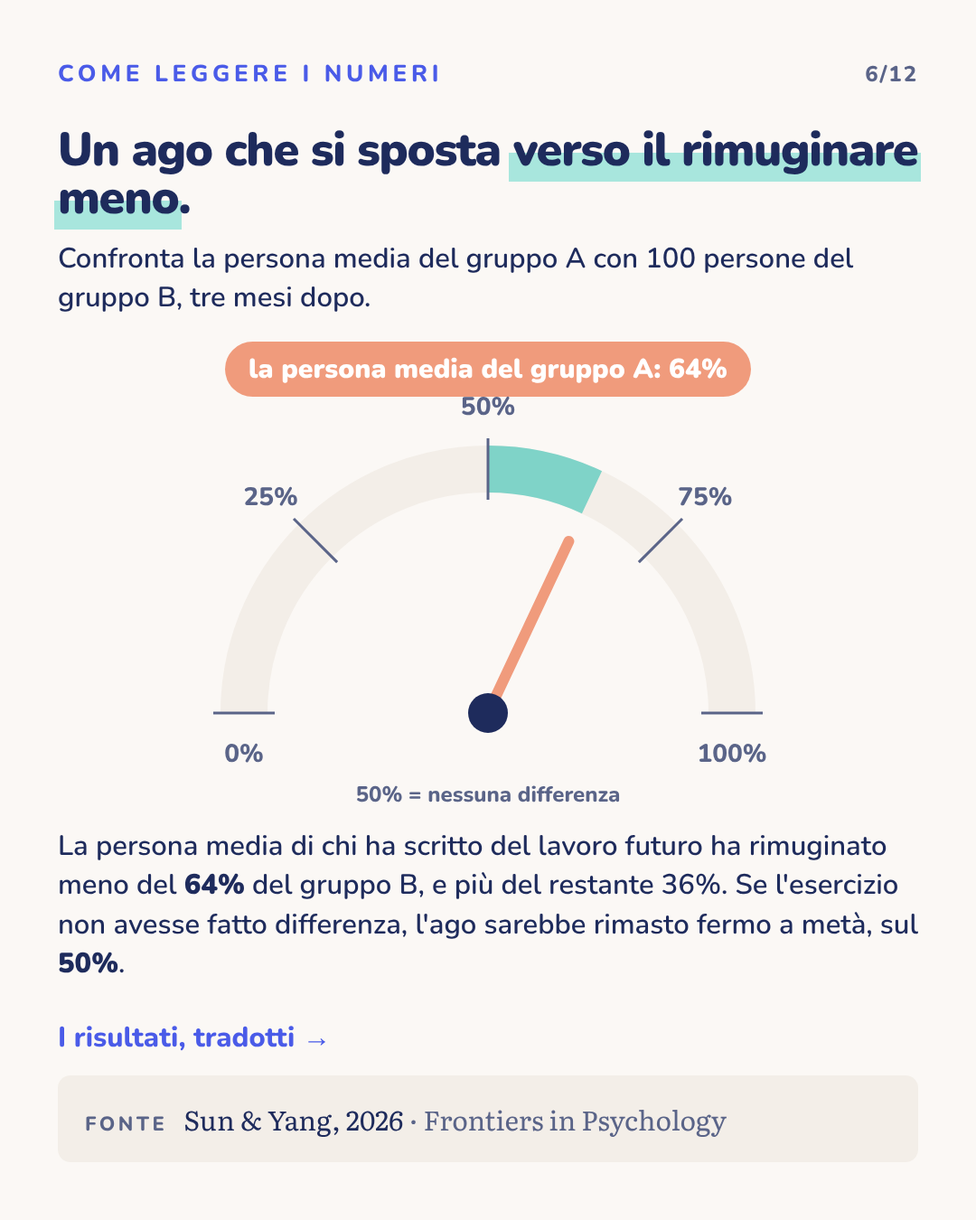
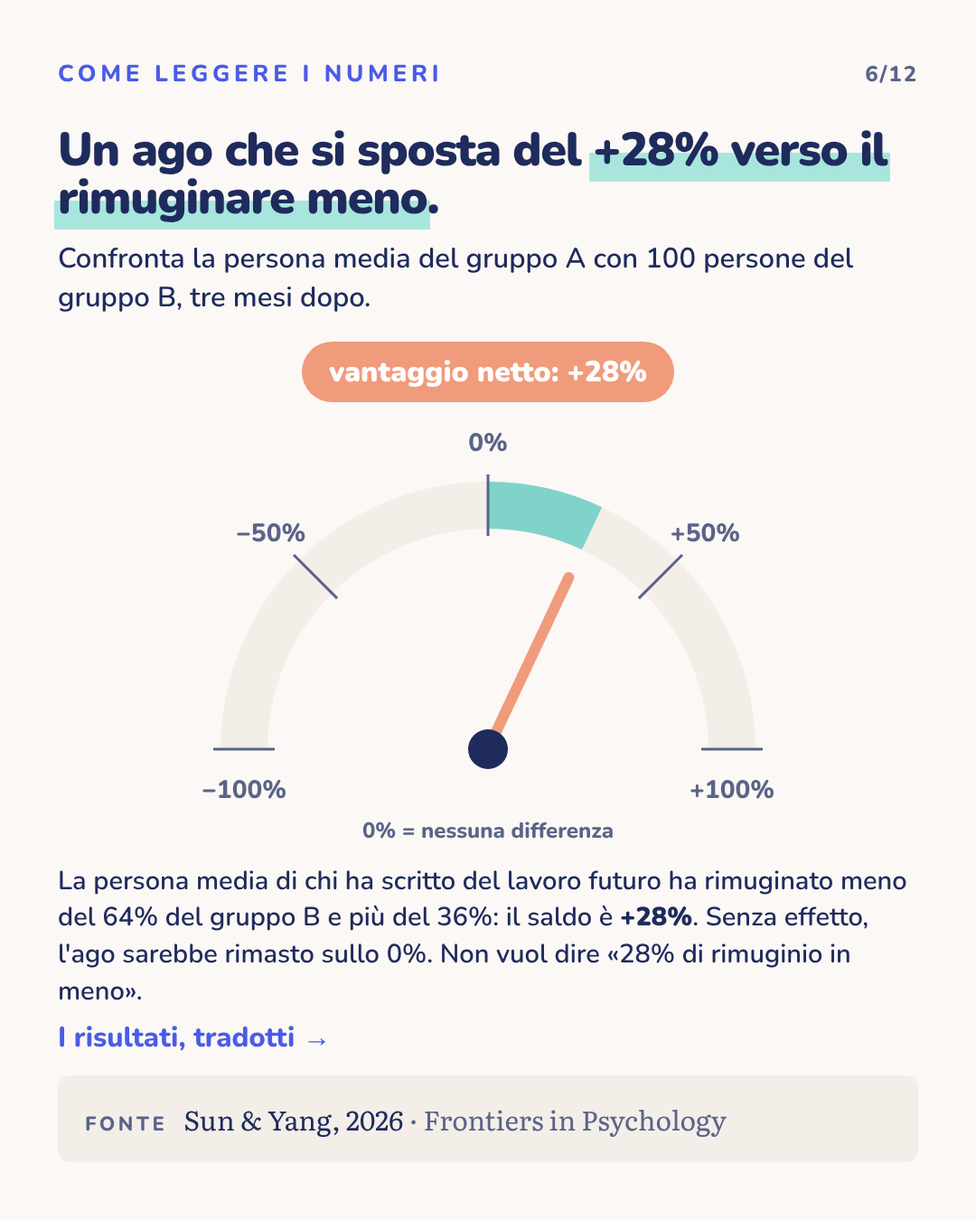
Direzione: net advantage (+28%) on slides 6-7, spacing fix
Claude-Session: https://claude.ai/code/session_01KYQeP73Zvn8PeP6zhkL2Sc

diff --git a/carosselli/direzione/editor-testi.html b/carosselli/direzione/editor-testi.html
@@ -270,26 +270,26 @@ svg.shape{position:absolute;z-index:1}
 </section></div></div></div><div class="cell"><span class="lab">Slide 6 di 12</span><div class="frame"><div class="deck"><section class="slide" id="s6">
   <div class="top"><p class="kicker we" data-e="s6-1">Come leggere i numeri</p><div class="count" data-e="s6-2">6/12</div></div>
   <div class="stack" style="margin-top:40px;gap:20px">
-    <h2 style="font-size:52px" data-e="s6-3">Un ago che si sposta <span class="hl t">verso il rimuginare meno</span>.</h2>
+    <h2 style="font-size:52px" data-e="s6-3">Un ago che si sposta del <span class="hl t">+28% verso il rimuginare meno</span>.</h2>
     <p class="mid" style="font-size:31px" data-e="s6-4">Confronta la persona media del gruppo A con 100 persone del gruppo B, tre mesi dopo.</p>
-    <span style="align-self:center;margin-top:6px;background:var(--coral);color:#fff;font-weight:900;font-size:30px;border-radius:999px;padding:10px 26px" data-e="s6-5">la persona media del gruppo A: 64%</span>
-    <svg width="880" height="390" viewBox="0 0 880 390" style="align-self:center;overflow:visible"><path d="M170.0 330.0 A270 270 0 0 1 710.0 330.0" fill="none" stroke="#F3EEE8" stroke-width="52" stroke-linecap="butt"></path><path d="M440.0 60.0 A270 270 0 0 1 555.0 85.7" fill="none" stroke="#7FD3C8" stroke-width="52" stroke-linecap="butt"></path><line x1="204.0" y1="330.0" x2="136.0" y2="330.0" stroke="#5A6488" stroke-width="3"></line><text x="170.0" y="384.0" text-anchor="middle" font-family="Nunito" font-weight="800" font-size="28" fill="#5A6488">0%</text><line x1="273.1" y1="163.1" x2="225.0" y2="115.0" stroke="#5A6488" stroke-width="3"></line><text x="199.6" y="99.6" text-anchor="middle" font-family="Nunito" font-weight="800" font-size="28" fill="#5A6488">25%</text><line x1="440.0" y1="94.0" x2="440.0" y2="26.0" stroke="#5A6488" stroke-width="3"></line><text x="440.0" y="0.0" text-anchor="middle" font-family="Nunito" font-weight="800" font-size="28" fill="#5A6488">50%</text><line x1="606.9" y1="163.1" x2="655.0" y2="115.0" stroke="#5A6488" stroke-width="3"></line><text x="680.4" y="99.6" text-anchor="middle" font-family="Nunito" font-weight="800" font-size="28" fill="#5A6488">75%</text><line x1="676.0" y1="330.0" x2="744.0" y2="330.0" stroke="#5A6488" stroke-width="3"></line><text x="710.0" y="384.0" text-anchor="middle" font-family="Nunito" font-weight="800" font-size="28" fill="#5A6488">100%</text><line x1="440" y1="330" x2="529.4" y2="140.0" stroke="#F09B7C" stroke-width="12" stroke-linecap="round"></line><circle cx="440" cy="330" r="22" fill="#1E2B5C"></circle></svg>
-    <p style="align-self:center;font-weight:800;font-size:24px;color:var(--muted);margin-top:-6px" data-e="s6-6">50% = nessuna differenza</p>
-    <p class="mid" style="font-size:31px" data-e="s6-7">La persona media di chi ha scritto del lavoro futuro ha rimuginato meno del <b>64%</b> del gruppo B, e più del restante 36%. Se l'esercizio non avesse fatto differenza, l'ago sarebbe rimasto fermo a metà, sul <b>50%</b>.</p>
+    <span style="align-self:center;margin-top:6px;margin-bottom:34px;background:var(--coral);color:#fff;font-weight:900;font-size:32px;border-radius:999px;padding:12px 30px" data-e="s6-5">vantaggio netto: +28%</span>
+    <svg width="880" height="390" viewBox="0 0 880 390" style="align-self:center;overflow:visible"><path d="M170.0 330.0 A270 270 0 0 1 710.0 330.0" fill="none" stroke="#F3EEE8" stroke-width="52" stroke-linecap="butt"></path><path d="M440.0 60.0 A270 270 0 0 1 555.0 85.7" fill="none" stroke="#7FD3C8" stroke-width="52" stroke-linecap="butt"></path><line x1="204.0" y1="330.0" x2="136.0" y2="330.0" stroke="#5A6488" stroke-width="3"></line><text x="170.0" y="384.0" text-anchor="middle" font-family="Nunito" font-weight="800" font-size="28" fill="#5A6488">−100%</text><line x1="273.1" y1="163.1" x2="225.0" y2="115.0" stroke="#5A6488" stroke-width="3"></line><text x="199.6" y="99.6" text-anchor="middle" font-family="Nunito" font-weight="800" font-size="28" fill="#5A6488">−50%</text><line x1="440.0" y1="94.0" x2="440.0" y2="26.0" stroke="#5A6488" stroke-width="3"></line><text x="440.0" y="0.0" text-anchor="middle" font-family="Nunito" font-weight="800" font-size="28" fill="#5A6488">0%</text><line x1="606.9" y1="163.1" x2="655.0" y2="115.0" stroke="#5A6488" stroke-width="3"></line><text x="680.4" y="99.6" text-anchor="middle" font-family="Nunito" font-weight="800" font-size="28" fill="#5A6488">+50%</text><line x1="676.0" y1="330.0" x2="744.0" y2="330.0" stroke="#5A6488" stroke-width="3"></line><text x="710.0" y="384.0" text-anchor="middle" font-family="Nunito" font-weight="800" font-size="28" fill="#5A6488">+100%</text><line x1="440" y1="330" x2="529.4" y2="140.0" stroke="#F09B7C" stroke-width="12" stroke-linecap="round"></line><circle cx="440" cy="330" r="22" fill="#1E2B5C"></circle></svg>
+    <p style="align-self:center;font-weight:800;font-size:24px;color:var(--muted);margin-top:-6px" data-e="s6-6">0% = nessuna differenza</p>
+    <p class="mid" style="font-size:29px" data-e="s6-7">La persona media di chi ha scritto del lavoro futuro ha rimuginato meno del 64% del gruppo B e più del 36%: il saldo è <b>+28%</b>. Senza effetto, l'ago sarebbe rimasto sullo 0%. Non vuol dire «28% di rimuginio in meno».</p>
   </div>
   <p class="next" data-e="s6-8">I risultati, tradotti →</p>
   <div class="src"><b data-e="s6-9">FONTE</b><span data-e="s6-10"><em>Sun &amp; Yang, 2026</em> · Frontiers in Psychology</span></div>
 </section></div></div></div><div class="cell"><span class="lab">Slide 7 di 12</span><div class="frame"><div class="deck"><section class="slide" id="s7">
   <div class="top"><p class="kicker we" data-e="s7-1">I numeri, tradotti</p><div class="count" data-e="s7-2">7/12</div></div>
   <div class="stack" style="margin-top:40px;gap:22px">
-    <h2 style="font-size:52px" data-e="s7-3">Tre mesi dopo, l'ago si è spostato in <span class="hl t">tutti e quattro</span> i confronti.</h2>
+    <h2 style="font-size:50px" data-e="s7-3">Tre mesi dopo, un vantaggio netto <span class="hl t">in tutti e quattro</span> i confronti.</h2>
     <div class="dg">
       <small data-e="s7-4">Rimuginare meno</small>
-      <div class="dr"><div class="dc"><svg width="300" height="175" viewBox="0 0 300 175"><path d="M38.0 150.0 A112 112 0 0 1 262.0 150.0" fill="none" stroke="#F3EEE8" stroke-width="30"></path><path d="M150.0 38.0 A112 112 0 0 1 197.7 48.7" fill="none" stroke="#7FD3C8" stroke-width="30"></path><line x1="150.0" y1="60.0" x2="150.0" y2="16.0" stroke="#5A6488" stroke-width="3"></line><line x1="150" y1="150" x2="184.9" y2="75.8" stroke="#F09B7C" stroke-width="8" stroke-linecap="round"></line><circle cx="150" cy="150" r="13" fill="#1E2B5C"></circle></svg><b data-e="s7-5">64%</b><span data-e="s7-6">rispetto a chi ha scritto d'altro (B)</span></div><div class="dc"><svg width="300" height="175" viewBox="0 0 300 175"><path d="M38.0 150.0 A112 112 0 0 1 262.0 150.0" fill="none" stroke="#F3EEE8" stroke-width="30"></path><path d="M150.0 38.0 A112 112 0 0 1 204.0 51.9" fill="none" stroke="#7FD3C8" stroke-width="30"></path><line x1="150.0" y1="60.0" x2="150.0" y2="16.0" stroke="#5A6488" stroke-width="3"></line><line x1="150" y1="150" x2="189.5" y2="78.1" stroke="#F09B7C" stroke-width="8" stroke-linecap="round"></line><circle cx="150" cy="150" r="13" fill="#1E2B5C"></circle></svg><b data-e="s7-7">66%</b><span data-e="s7-8">rispetto a chi non ha scritto (C)</span></div></div>
+      <div class="dr"><div class="dc"><svg width="300" height="175" viewBox="0 0 300 175"><path d="M38.0 150.0 A112 112 0 0 1 262.0 150.0" fill="none" stroke="#F3EEE8" stroke-width="30"></path><path d="M150.0 38.0 A112 112 0 0 1 197.7 48.7" fill="none" stroke="#7FD3C8" stroke-width="30"></path><line x1="150.0" y1="60.0" x2="150.0" y2="16.0" stroke="#5A6488" stroke-width="3"></line><line x1="150" y1="150" x2="184.9" y2="75.8" stroke="#F09B7C" stroke-width="8" stroke-linecap="round"></line><circle cx="150" cy="150" r="13" fill="#1E2B5C"></circle></svg><b data-e="s7-5">+28%</b><span data-e="s7-6">rispetto a chi ha scritto d'altro (B)</span></div><div class="dc"><svg width="300" height="175" viewBox="0 0 300 175"><path d="M38.0 150.0 A112 112 0 0 1 262.0 150.0" fill="none" stroke="#F3EEE8" stroke-width="30"></path><path d="M150.0 38.0 A112 112 0 0 1 204.0 51.9" fill="none" stroke="#7FD3C8" stroke-width="30"></path><line x1="150.0" y1="60.0" x2="150.0" y2="16.0" stroke="#5A6488" stroke-width="3"></line><line x1="150" y1="150" x2="189.5" y2="78.1" stroke="#F09B7C" stroke-width="8" stroke-linecap="round"></line><circle cx="150" cy="150" r="13" fill="#1E2B5C"></circle></svg><b data-e="s7-7">+32%</b><span data-e="s7-8">rispetto a chi non ha scritto (C)</span></div></div>
       <small data-e="s7-9">Sentirsi pronti a decidere</small>
-      <div class="dr"><div class="dc"><svg width="300" height="175" viewBox="0 0 300 175"><path d="M38.0 150.0 A112 112 0 0 1 262.0 150.0" fill="none" stroke="#F3EEE8" stroke-width="30"></path><path d="M150.0 38.0 A112 112 0 0 1 200.8 50.2" fill="none" stroke="#7FD3C8" stroke-width="30"></path><line x1="150.0" y1="60.0" x2="150.0" y2="16.0" stroke="#5A6488" stroke-width="3"></line><line x1="150" y1="150" x2="187.2" y2="76.9" stroke="#F09B7C" stroke-width="8" stroke-linecap="round"></line><circle cx="150" cy="150" r="13" fill="#1E2B5C"></circle></svg><b data-e="s7-10">65%</b><span data-e="s7-11">rispetto a chi ha scritto d'altro (B)</span></div><div class="dc"><svg width="300" height="175" viewBox="0 0 300 175"><path d="M38.0 150.0 A112 112 0 0 1 262.0 150.0" fill="none" stroke="#F3EEE8" stroke-width="30"></path><path d="M150.0 38.0 A112 112 0 0 1 207.0 53.6" fill="none" stroke="#7FD3C8" stroke-width="30"></path><line x1="150.0" y1="60.0" x2="150.0" y2="16.0" stroke="#5A6488" stroke-width="3"></line><line x1="150" y1="150" x2="191.7" y2="79.4" stroke="#F09B7C" stroke-width="8" stroke-linecap="round"></line><circle cx="150" cy="150" r="13" fill="#1E2B5C"></circle></svg><b data-e="s7-12">67%</b><span data-e="s7-13">rispetto a chi non ha scritto (C)</span></div></div>
+      <div class="dr"><div class="dc"><svg width="300" height="175" viewBox="0 0 300 175"><path d="M38.0 150.0 A112 112 0 0 1 262.0 150.0" fill="none" stroke="#F3EEE8" stroke-width="30"></path><path d="M150.0 38.0 A112 112 0 0 1 200.8 50.2" fill="none" stroke="#7FD3C8" stroke-width="30"></path><line x1="150.0" y1="60.0" x2="150.0" y2="16.0" stroke="#5A6488" stroke-width="3"></line><line x1="150" y1="150" x2="187.2" y2="76.9" stroke="#F09B7C" stroke-width="8" stroke-linecap="round"></line><circle cx="150" cy="150" r="13" fill="#1E2B5C"></circle></svg><b data-e="s7-10">+30%</b><span data-e="s7-11">rispetto a chi ha scritto d'altro (B)</span></div><div class="dc"><svg width="300" height="175" viewBox="0 0 300 175"><path d="M38.0 150.0 A112 112 0 0 1 262.0 150.0" fill="none" stroke="#F3EEE8" stroke-width="30"></path><path d="M150.0 38.0 A112 112 0 0 1 207.0 53.6" fill="none" stroke="#7FD3C8" stroke-width="30"></path><line x1="150.0" y1="60.0" x2="150.0" y2="16.0" stroke="#5A6488" stroke-width="3"></line><line x1="150" y1="150" x2="191.7" y2="79.4" stroke="#F09B7C" stroke-width="8" stroke-linecap="round"></line><circle cx="150" cy="150" r="13" fill="#1E2B5C"></circle></svg><b data-e="s7-12">+34%</b><span data-e="s7-13">rispetto a chi non ha scritto (C)</span></div></div>
     </div>
-    <p class="mid" style="font-size:30px" data-e="s7-14">«Pronti a decidere» vuol dire meno indecisione, più motivazione a scegliere e meno convinzioni che bloccano la scelta. Sono effetti moderati, ottenuti con circa 80 minuti di scrittura in tutto.</p>
+    <p class="mid" style="font-size:30px" data-e="s7-14">«Pronti a decidere» vuol dire meno indecisione, più motivazione a scegliere e meno convinzioni che bloccano la scelta. Effetti moderati, con circa 80 minuti di scrittura in tutto.</p>
   </div>
   <p class="next" data-e="s7-15">E che cosa non è cambiato? →</p>
   <div class="src"><b data-e="s7-16">FONTE</b><span data-e="s7-17"><em>Sun &amp; Yang, 2026</em> · Frontiers in Psychology</span></div>

diff --git a/carosselli/direzione/slides.html b/carosselli/direzione/slides.html
@@ -241,12 +241,12 @@ svg.shape{position:absolute;z-index:1}
 <section class="slide" id="s6">
   <div class="top"><p class="kicker we">Come leggere i numeri</p><div class="count">6/12</div></div>
   <div class="stack" style="margin-top:40px;gap:20px">
-    <h2 style="font-size:52px">Un ago che si sposta <span class="hl t">verso il rimuginare meno</span>.</h2>
+    <h2 style="font-size:52px">Un ago che si sposta del <span class="hl t">+28% verso il rimuginare meno</span>.</h2>
     <p class="mid" style="font-size:31px">Confronta la persona media del gruppo A con 100 persone del gruppo B, tre mesi dopo.</p>
-    <span style="align-self:center;margin-top:6px;background:var(--coral);color:#fff;font-weight:900;font-size:30px;border-radius:999px;padding:10px 26px">la persona media del gruppo A: 64%</span>
-    <svg width="880" height="390" viewBox="0 0 880 390" style="align-self:center;overflow:visible"><path d="M170.0 330.0 A270 270 0 0 1 710.0 330.0" fill="none" stroke="#F3EEE8" stroke-width="52" stroke-linecap="butt"></path><path d="M440.0 60.0 A270 270 0 0 1 555.0 85.7" fill="none" stroke="#7FD3C8" stroke-width="52" stroke-linecap="butt"></path><line x1="204.0" y1="330.0" x2="136.0" y2="330.0" stroke="#5A6488" stroke-width="3"></line><text x="170.0" y="384.0" text-anchor="middle" font-family="Nunito" font-weight="800" font-size="28" fill="#5A6488">0%</text><line x1="273.1" y1="163.1" x2="225.0" y2="115.0" stroke="#5A6488" stroke-width="3"></line><text x="199.6" y="99.6" text-anchor="middle" font-family="Nunito" font-weight="800" font-size="28" fill="#5A6488">25%</text><line x1="440.0" y1="94.0" x2="440.0" y2="26.0" stroke="#5A6488" stroke-width="3"></line><text x="440.0" y="0.0" text-anchor="middle" font-family="Nunito" font-weight="800" font-size="28" fill="#5A6488">50%</text><line x1="606.9" y1="163.1" x2="655.0" y2="115.0" stroke="#5A6488" stroke-width="3"></line><text x="680.4" y="99.6" text-anchor="middle" font-family="Nunito" font-weight="800" font-size="28" fill="#5A6488">75%</text><line x1="676.0" y1="330.0" x2="744.0" y2="330.0" stroke="#5A6488" stroke-width="3"></line><text x="710.0" y="384.0" text-anchor="middle" font-family="Nunito" font-weight="800" font-size="28" fill="#5A6488">100%</text><line x1="440" y1="330" x2="529.4" y2="140.0" stroke="#F09B7C" stroke-width="12" stroke-linecap="round"></line><circle cx="440" cy="330" r="22" fill="#1E2B5C"></circle></svg>
-    <p style="align-self:center;font-weight:800;font-size:24px;color:var(--muted);margin-top:-6px">50% = nessuna differenza</p>
-    <p class="mid" style="font-size:31px">La persona media di chi ha scritto del lavoro futuro ha rimuginato meno del <b>64%</b> del gruppo B, e più del restante 36%. Se l'esercizio non avesse fatto differenza, l'ago sarebbe rimasto fermo a metà, sul <b>50%</b>.</p>
+    <span style="align-self:center;margin-top:6px;margin-bottom:34px;background:var(--coral);color:#fff;font-weight:900;font-size:32px;border-radius:999px;padding:12px 30px">vantaggio netto: +28%</span>
+    <svg width="880" height="390" viewBox="0 0 880 390" style="align-self:center;overflow:visible"><path d="M170.0 330.0 A270 270 0 0 1 710.0 330.0" fill="none" stroke="#F3EEE8" stroke-width="52" stroke-linecap="butt"></path><path d="M440.0 60.0 A270 270 0 0 1 555.0 85.7" fill="none" stroke="#7FD3C8" stroke-width="52" stroke-linecap="butt"></path><line x1="204.0" y1="330.0" x2="136.0" y2="330.0" stroke="#5A6488" stroke-width="3"></line><text x="170.0" y="384.0" text-anchor="middle" font-family="Nunito" font-weight="800" font-size="28" fill="#5A6488">−100%</text><line x1="273.1" y1="163.1" x2="225.0" y2="115.0" stroke="#5A6488" stroke-width="3"></line><text x="199.6" y="99.6" text-anchor="middle" font-family="Nunito" font-weight="800" font-size="28" fill="#5A6488">−50%</text><line x1="440.0" y1="94.0" x2="440.0" y2="26.0" stroke="#5A6488" stroke-width="3"></line><text x="440.0" y="0.0" text-anchor="middle" font-family="Nunito" font-weight="800" font-size="28" fill="#5A6488">0%</text><line x1="606.9" y1="163.1" x2="655.0" y2="115.0" stroke="#5A6488" stroke-width="3"></line><text x="680.4" y="99.6" text-anchor="middle" font-family="Nunito" font-weight="800" font-size="28" fill="#5A6488">+50%</text><line x1="676.0" y1="330.0" x2="744.0" y2="330.0" stroke="#5A6488" stroke-width="3"></line><text x="710.0" y="384.0" text-anchor="middle" font-family="Nunito" font-weight="800" font-size="28" fill="#5A6488">+100%</text><line x1="440" y1="330" x2="529.4" y2="140.0" stroke="#F09B7C" stroke-width="12" stroke-linecap="round"></line><circle cx="440" cy="330" r="22" fill="#1E2B5C"></circle></svg>
+    <p style="align-self:center;font-weight:800;font-size:24px;color:var(--muted);margin-top:-6px">0% = nessuna differenza</p>
+    <p class="mid" style="font-size:29px">La persona media di chi ha scritto del lavoro futuro ha rimuginato meno del 64% del gruppo B e più del 36%: il saldo è <b>+28%</b>. Senza effetto, l'ago sarebbe rimasto sullo 0%. Non vuol dire «28% di rimuginio in meno».</p>
   </div>
   <p class="next">I risultati, tradotti →</p>
   <div class="src"><b>FONTE</b><span><em>Sun &amp; Yang, 2026</em> · Frontiers in Psychology</span></div>
@@ -255,14 +255,14 @@ svg.shape{position:absolute;z-index:1}
 <section class="slide" id="s7">
   <div class="top"><p class="kicker we">I numeri, tradotti</p><div class="count">7/12</div></div>
   <div class="stack" style="margin-top:40px;gap:22px">
-    <h2 style="font-size:52px">Tre mesi dopo, l'ago si è spostato in <span class="hl t">tutti e quattro</span> i confronti.</h2>
+    <h2 style="font-size:50px">Tre mesi dopo, un vantaggio netto <span class="hl t">in tutti e quattro</span> i confronti.</h2>
     <div class="dg">
       <small>Rimuginare meno</small>
-      <div class="dr"><div class="dc"><svg width="300" height="175" viewBox="0 0 300 175"><path d="M38.0 150.0 A112 112 0 0 1 262.0 150.0" fill="none" stroke="#F3EEE8" stroke-width="30"></path><path d="M150.0 38.0 A112 112 0 0 1 197.7 48.7" fill="none" stroke="#7FD3C8" stroke-width="30"></path><line x1="150.0" y1="60.0" x2="150.0" y2="16.0" stroke="#5A6488" stroke-width="3"></line><line x1="150" y1="150" x2="184.9" y2="75.8" stroke="#F09B7C" stroke-width="8" stroke-linecap="round"></line><circle cx="150" cy="150" r="13" fill="#1E2B5C"></circle></svg><b>64%</b><span>rispetto a chi ha scritto d'altro (B)</span></div><div class="dc"><svg width="300" height="175" viewBox="0 0 300 175"><path d="M38.0 150.0 A112 112 0 0 1 262.0 150.0" fill="none" stroke="#F3EEE8" stroke-width="30"></path><path d="M150.0 38.0 A112 112 0 0 1 204.0 51.9" fill="none" stroke="#7FD3C8" stroke-width="30"></path><line x1="150.0" y1="60.0" x2="150.0" y2="16.0" stroke="#5A6488" stroke-width="3"></line><line x1="150" y1="150" x2="189.5" y2="78.1" stroke="#F09B7C" stroke-width="8" stroke-linecap="round"></line><circle cx="150" cy="150" r="13" fill="#1E2B5C"></circle></svg><b>66%</b><span>rispetto a chi non ha scritto (C)</span></div></div>
+      <div class="dr"><div class="dc"><svg width="300" height="175" viewBox="0 0 300 175"><path d="M38.0 150.0 A112 112 0 0 1 262.0 150.0" fill="none" stroke="#F3EEE8" stroke-width="30"></path><path d="M150.0 38.0 A112 112 0 0 1 197.7 48.7" fill="none" stroke="#7FD3C8" stroke-width="30"></path><line x1="150.0" y1="60.0" x2="150.0" y2="16.0" stroke="#5A6488" stroke-width="3"></line><line x1="150" y1="150" x2="184.9" y2="75.8" stroke="#F09B7C" stroke-width="8" stroke-linecap="round"></line><circle cx="150" cy="150" r="13" fill="#1E2B5C"></circle></svg><b>+28%</b><span>rispetto a chi ha scritto d'altro (B)</span></div><div class="dc"><svg width="300" height="175" viewBox="0 0 300 175"><path d="M38.0 150.0 A112 112 0 0 1 262.0 150.0" fill="none" stroke="#F3EEE8" stroke-width="30"></path><path d="M150.0 38.0 A112 112 0 0 1 204.0 51.9" fill="none" stroke="#7FD3C8" stroke-width="30"></path><line x1="150.0" y1="60.0" x2="150.0" y2="16.0" stroke="#5A6488" stroke-width="3"></line><line x1="150" y1="150" x2="189.5" y2="78.1" stroke="#F09B7C" stroke-width="8" stroke-linecap="round"></line><circle cx="150" cy="150" r="13" fill="#1E2B5C"></circle></svg><b>+32%</b><span>rispetto a chi non ha scritto (C)</span></div></div>
       <small>Sentirsi pronti a decidere</small>
-      <div class="dr"><div class="dc"><svg width="300" height="175" viewBox="0 0 300 175"><path d="M38.0 150.0 A112 112 0 0 1 262.0 150.0" fill="none" stroke="#F3EEE8" stroke-width="30"></path><path d="M150.0 38.0 A112 112 0 0 1 200.8 50.2" fill="none" stroke="#7FD3C8" stroke-width="30"></path><line x1="150.0" y1="60.0" x2="150.0" y2="16.0" stroke="#5A6488" stroke-width="3"></line><line x1="150" y1="150" x2="187.2" y2="76.9" stroke="#F09B7C" stroke-width="8" stroke-linecap="round"></line><circle cx="150" cy="150" r="13" fill="#1E2B5C"></circle></svg><b>65%</b><span>rispetto a chi ha scritto d'altro (B)</span></div><div class="dc"><svg width="300" height="175" viewBox="0 0 300 175"><path d="M38.0 150.0 A112 112 0 0 1 262.0 150.0" fill="none" stroke="#F3EEE8" stroke-width="30"></path><path d="M150.0 38.0 A112 112 0 0 1 207.0 53.6" fill="none" stroke="#7FD3C8" stroke-width="30"></path><line x1="150.0" y1="60.0" x2="150.0" y2="16.0" stroke="#5A6488" stroke-width="3"></line><line x1="150" y1="150" x2="191.7" y2="79.4" stroke="#F09B7C" stroke-width="8" stroke-linecap="round"></line><circle cx="150" cy="150" r="13" fill="#1E2B5C"></circle></svg><b>67%</b><span>rispetto a chi non ha scritto (C)</span></div></div>
+      <div class="dr"><div class="dc"><svg width="300" height="175" viewBox="0 0 300 175"><path d="M38.0 150.0 A112 112 0 0 1 262.0 150.0" fill="none" stroke="#F3EEE8" stroke-width="30"></path><path d="M150.0 38.0 A112 112 0 0 1 200.8 50.2" fill="none" stroke="#7FD3C8" stroke-width="30"></path><line x1="150.0" y1="60.0" x2="150.0" y2="16.0" stroke="#5A6488" stroke-width="3"></line><line x1="150" y1="150" x2="187.2" y2="76.9" stroke="#F09B7C" stroke-width="8" stroke-linecap="round"></line><circle cx="150" cy="150" r="13" fill="#1E2B5C"></circle></svg><b>+30%</b><span>rispetto a chi ha scritto d'altro (B)</span></div><div class="dc"><svg width="300" height="175" viewBox="0 0 300 175"><path d="M38.0 150.0 A112 112 0 0 1 262.0 150.0" fill="none" stroke="#F3EEE8" stroke-width="30"></path><path d="M150.0 38.0 A112 112 0 0 1 207.0 53.6" fill="none" stroke="#7FD3C8" stroke-width="30"></path><line x1="150.0" y1="60.0" x2="150.0" y2="16.0" stroke="#5A6488" stroke-width="3"></line><line x1="150" y1="150" x2="191.7" y2="79.4" stroke="#F09B7C" stroke-width="8" stroke-linecap="round"></line><circle cx="150" cy="150" r="13" fill="#1E2B5C"></circle></svg><b>+34%</b><span>rispetto a chi non ha scritto (C)</span></div></div>
     </div>
-    <p class="mid" style="font-size:30px">«Pronti a decidere» vuol dire meno indecisione, più motivazione a scegliere e meno convinzioni che bloccano la scelta. Sono effetti moderati, ottenuti con circa 80 minuti di scrittura in tutto.</p>
+    <p class="mid" style="font-size:30px">«Pronti a decidere» vuol dire meno indecisione, più motivazione a scegliere e meno convinzioni che bloccano la scelta. Effetti moderati, con circa 80 minuti di scrittura in tutto.</p>
   </div>
   <p class="next">E che cosa non è cambiato? →</p>
   <div class="src"><b>FONTE</b><span><em>Sun &amp; Yang, 2026</em> · Frontiers in Psychology</span></div>

diff --git a/carosselli/direzione/body.html b/carosselli/direzione/body.html
@@ -166,12 +166,12 @@
 <section class="slide" id="s6">
   <div class="top"><p class="kicker we">Come leggere i numeri</p><div class="count">6/12</div></div>
   <div class="stack" style="margin-top:40px;gap:20px">
-    <h2 style="font-size:52px">Un ago che si sposta <span class="hl t">verso il rimuginare meno</span>.</h2>
+    <h2 style="font-size:52px">Un ago che si sposta del <span class="hl t">+28% verso il rimuginare meno</span>.</h2>
     <p class="mid" style="font-size:31px">Confronta la persona media del gruppo A con 100 persone del gruppo B, tre mesi dopo.</p>
-    <span style="align-self:center;margin-top:6px;background:var(--coral);color:#fff;font-weight:900;font-size:30px;border-radius:999px;padding:10px 26px">la persona media del gruppo A: 64%</span>
-    <svg width="880" height="390" viewBox="0 0 880 390" style="align-self:center;overflow:visible"><path d="M170.0 330.0 A270 270 0 0 1 710.0 330.0" fill="none" stroke="#F3EEE8" stroke-width="52" stroke-linecap="butt"></path><path d="M440.0 60.0 A270 270 0 0 1 555.0 85.7" fill="none" stroke="#7FD3C8" stroke-width="52" stroke-linecap="butt"></path><line x1="204.0" y1="330.0" x2="136.0" y2="330.0" stroke="#5A6488" stroke-width="3"></line><text x="170.0" y="384.0" text-anchor="middle" font-family="Nunito" font-weight="800" font-size="28" fill="#5A6488">0%</text><line x1="273.1" y1="163.1" x2="225.0" y2="115.0" stroke="#5A6488" stroke-width="3"></line><text x="199.6" y="99.6" text-anchor="middle" font-family="Nunito" font-weight="800" font-size="28" fill="#5A6488">25%</text><line x1="440.0" y1="94.0" x2="440.0" y2="26.0" stroke="#5A6488" stroke-width="3"></line><text x="440.0" y="0.0" text-anchor="middle" font-family="Nunito" font-weight="800" font-size="28" fill="#5A6488">50%</text><line x1="606.9" y1="163.1" x2="655.0" y2="115.0" stroke="#5A6488" stroke-width="3"></line><text x="680.4" y="99.6" text-anchor="middle" font-family="Nunito" font-weight="800" font-size="28" fill="#5A6488">75%</text><line x1="676.0" y1="330.0" x2="744.0" y2="330.0" stroke="#5A6488" stroke-width="3"></line><text x="710.0" y="384.0" text-anchor="middle" font-family="Nunito" font-weight="800" font-size="28" fill="#5A6488">100%</text><line x1="440" y1="330" x2="529.4" y2="140.0" stroke="#F09B7C" stroke-width="12" stroke-linecap="round"></line><circle cx="440" cy="330" r="22" fill="#1E2B5C"></circle></svg>
-    <p style="align-self:center;font-weight:800;font-size:24px;color:var(--muted);margin-top:-6px">50% = nessuna differenza</p>
-    <p class="mid" style="font-size:31px">La persona media di chi ha scritto del lavoro futuro ha rimuginato meno del <b>64%</b> del gruppo B, e più del restante 36%. Se l'esercizio non avesse fatto differenza, l'ago sarebbe rimasto fermo a metà, sul <b>50%</b>.</p>
+    <span style="align-self:center;margin-top:6px;margin-bottom:34px;background:var(--coral);color:#fff;font-weight:900;font-size:32px;border-radius:999px;padding:12px 30px">vantaggio netto: +28%</span>
+    <svg width="880" height="390" viewBox="0 0 880 390" style="align-self:center;overflow:visible"><path d="M170.0 330.0 A270 270 0 0 1 710.0 330.0" fill="none" stroke="#F3EEE8" stroke-width="52" stroke-linecap="butt"></path><path d="M440.0 60.0 A270 270 0 0 1 555.0 85.7" fill="none" stroke="#7FD3C8" stroke-width="52" stroke-linecap="butt"></path><line x1="204.0" y1="330.0" x2="136.0" y2="330.0" stroke="#5A6488" stroke-width="3"></line><text x="170.0" y="384.0" text-anchor="middle" font-family="Nunito" font-weight="800" font-size="28" fill="#5A6488">−100%</text><line x1="273.1" y1="163.1" x2="225.0" y2="115.0" stroke="#5A6488" stroke-width="3"></line><text x="199.6" y="99.6" text-anchor="middle" font-family="Nunito" font-weight="800" font-size="28" fill="#5A6488">−50%</text><line x1="440.0" y1="94.0" x2="440.0" y2="26.0" stroke="#5A6488" stroke-width="3"></line><text x="440.0" y="0.0" text-anchor="middle" font-family="Nunito" font-weight="800" font-size="28" fill="#5A6488">0%</text><line x1="606.9" y1="163.1" x2="655.0" y2="115.0" stroke="#5A6488" stroke-width="3"></line><text x="680.4" y="99.6" text-anchor="middle" font-family="Nunito" font-weight="800" font-size="28" fill="#5A6488">+50%</text><line x1="676.0" y1="330.0" x2="744.0" y2="330.0" stroke="#5A6488" stroke-width="3"></line><text x="710.0" y="384.0" text-anchor="middle" font-family="Nunito" font-weight="800" font-size="28" fill="#5A6488">+100%</text><line x1="440" y1="330" x2="529.4" y2="140.0" stroke="#F09B7C" stroke-width="12" stroke-linecap="round"></line><circle cx="440" cy="330" r="22" fill="#1E2B5C"></circle></svg>
+    <p style="align-self:center;font-weight:800;font-size:24px;color:var(--muted);margin-top:-6px">0% = nessuna differenza</p>
+    <p class="mid" style="font-size:29px">La persona media di chi ha scritto del lavoro futuro ha rimuginato meno del 64% del gruppo B e più del 36%: il saldo è <b>+28%</b>. Senza effetto, l'ago sarebbe rimasto sullo 0%. Non vuol dire «28% di rimuginio in meno».</p>
   </div>
   <p class="next">I risultati, tradotti →</p>
   <div class="src"><b>FONTE</b><span><em>Sun &amp; Yang, 2026</em> · Frontiers in Psychology</span></div>
@@ -180,14 +180,14 @@
 <section class="slide" id="s7">
   <div class="top"><p class="kicker we">I numeri, tradotti</p><div class="count">7/12</div></div>
   <div class="stack" style="margin-top:40px;gap:22px">
-    <h2 style="font-size:52px">Tre mesi dopo, l'ago si è spostato in <span class="hl t">tutti e quattro</span> i confronti.</h2>
+    <h2 style="font-size:50px">Tre mesi dopo, un vantaggio netto <span class="hl t">in tutti e quattro</span> i confronti.</h2>
     <div class="dg">
       <small>Rimuginare meno</small>
-      <div class="dr"><div class="dc"><svg width="300" height="175" viewBox="0 0 300 175"><path d="M38.0 150.0 A112 112 0 0 1 262.0 150.0" fill="none" stroke="#F3EEE8" stroke-width="30"></path><path d="M150.0 38.0 A112 112 0 0 1 197.7 48.7" fill="none" stroke="#7FD3C8" stroke-width="30"></path><line x1="150.0" y1="60.0" x2="150.0" y2="16.0" stroke="#5A6488" stroke-width="3"></line><line x1="150" y1="150" x2="184.9" y2="75.8" stroke="#F09B7C" stroke-width="8" stroke-linecap="round"></line><circle cx="150" cy="150" r="13" fill="#1E2B5C"></circle></svg><b>64%</b><span>rispetto a chi ha scritto d'altro (B)</span></div><div class="dc"><svg width="300" height="175" viewBox="0 0 300 175"><path d="M38.0 150.0 A112 112 0 0 1 262.0 150.0" fill="none" stroke="#F3EEE8" stroke-width="30"></path><path d="M150.0 38.0 A112 112 0 0 1 204.0 51.9" fill="none" stroke="#7FD3C8" stroke-width="30"></path><line x1="150.0" y1="60.0" x2="150.0" y2="16.0" stroke="#5A6488" stroke-width="3"></line><line x1="150" y1="150" x2="189.5" y2="78.1" stroke="#F09B7C" stroke-width="8" stroke-linecap="round"></line><circle cx="150" cy="150" r="13" fill="#1E2B5C"></circle></svg><b>66%</b><span>rispetto a chi non ha scritto (C)</span></div></div>
+      <div class="dr"><div class="dc"><svg width="300" height="175" viewBox="0 0 300 175"><path d="M38.0 150.0 A112 112 0 0 1 262.0 150.0" fill="none" stroke="#F3EEE8" stroke-width="30"></path><path d="M150.0 38.0 A112 112 0 0 1 197.7 48.7" fill="none" stroke="#7FD3C8" stroke-width="30"></path><line x1="150.0" y1="60.0" x2="150.0" y2="16.0" stroke="#5A6488" stroke-width="3"></line><line x1="150" y1="150" x2="184.9" y2="75.8" stroke="#F09B7C" stroke-width="8" stroke-linecap="round"></line><circle cx="150" cy="150" r="13" fill="#1E2B5C"></circle></svg><b>+28%</b><span>rispetto a chi ha scritto d'altro (B)</span></div><div class="dc"><svg width="300" height="175" viewBox="0 0 300 175"><path d="M38.0 150.0 A112 112 0 0 1 262.0 150.0" fill="none" stroke="#F3EEE8" stroke-width="30"></path><path d="M150.0 38.0 A112 112 0 0 1 204.0 51.9" fill="none" stroke="#7FD3C8" stroke-width="30"></path><line x1="150.0" y1="60.0" x2="150.0" y2="16.0" stroke="#5A6488" stroke-width="3"></line><line x1="150" y1="150" x2="189.5" y2="78.1" stroke="#F09B7C" stroke-width="8" stroke-linecap="round"></line><circle cx="150" cy="150" r="13" fill="#1E2B5C"></circle></svg><b>+32%</b><span>rispetto a chi non ha scritto (C)</span></div></div>
       <small>Sentirsi pronti a decidere</small>
-      <div class="dr"><div class="dc"><svg width="300" height="175" viewBox="0 0 300 175"><path d="M38.0 150.0 A112 112 0 0 1 262.0 150.0" fill="none" stroke="#F3EEE8" stroke-width="30"></path><path d="M150.0 38.0 A112 112 0 0 1 200.8 50.2" fill="none" stroke="#7FD3C8" stroke-width="30"></path><line x1="150.0" y1="60.0" x2="150.0" y2="16.0" stroke="#5A6488" stroke-width="3"></line><line x1="150" y1="150" x2="187.2" y2="76.9" stroke="#F09B7C" stroke-width="8" stroke-linecap="round"></line><circle cx="150" cy="150" r="13" fill="#1E2B5C"></circle></svg><b>65%</b><span>rispetto a chi ha scritto d'altro (B)</span></div><div class="dc"><svg width="300" height="175" viewBox="0 0 300 175"><path d="M38.0 150.0 A112 112 0 0 1 262.0 150.0" fill="none" stroke="#F3EEE8" stroke-width="30"></path><path d="M150.0 38.0 A112 112 0 0 1 207.0 53.6" fill="none" stroke="#7FD3C8" stroke-width="30"></path><line x1="150.0" y1="60.0" x2="150.0" y2="16.0" stroke="#5A6488" stroke-width="3"></line><line x1="150" y1="150" x2="191.7" y2="79.4" stroke="#F09B7C" stroke-width="8" stroke-linecap="round"></line><circle cx="150" cy="150" r="13" fill="#1E2B5C"></circle></svg><b>67%</b><span>rispetto a chi non ha scritto (C)</span></div></div>
+      <div class="dr"><div class="dc"><svg width="300" height="175" viewBox="0 0 300 175"><path d="M38.0 150.0 A112 112 0 0 1 262.0 150.0" fill="none" stroke="#F3EEE8" stroke-width="30"></path><path d="M150.0 38.0 A112 112 0 0 1 200.8 50.2" fill="none" stroke="#7FD3C8" stroke-width="30"></path><line x1="150.0" y1="60.0" x2="150.0" y2="16.0" stroke="#5A6488" stroke-width="3"></line><line x1="150" y1="150" x2="187.2" y2="76.9" stroke="#F09B7C" stroke-width="8" stroke-linecap="round"></line><circle cx="150" cy="150" r="13" fill="#1E2B5C"></circle></svg><b>+30%</b><span>rispetto a chi ha scritto d'altro (B)</span></div><div class="dc"><svg width="300" height="175" viewBox="0 0 300 175"><path d="M38.0 150.0 A112 112 0 0 1 262.0 150.0" fill="none" stroke="#F3EEE8" stroke-width="30"></path><path d="M150.0 38.0 A112 112 0 0 1 207.0 53.6" fill="none" stroke="#7FD3C8" stroke-width="30"></path><line x1="150.0" y1="60.0" x2="150.0" y2="16.0" stroke="#5A6488" stroke-width="3"></line><line x1="150" y1="150" x2="191.7" y2="79.4" stroke="#F09B7C" stroke-width="8" stroke-linecap="round"></line><circle cx="150" cy="150" r="13" fill="#1E2B5C"></circle></svg><b>+34%</b><span>rispetto a chi non ha scritto (C)</span></div></div>
     </div>
-    <p class="mid" style="font-size:30px">«Pronti a decidere» vuol dire meno indecisione, più motivazione a scegliere e meno convinzioni che bloccano la scelta. Sono effetti moderati, ottenuti con circa 80 minuti di scrittura in tutto.</p>
+    <p class="mid" style="font-size:30px">«Pronti a decidere» vuol dire meno indecisione, più motivazione a scegliere e meno convinzioni che bloccano la scelta. Effetti moderati, con circa 80 minuti di scrittura in tutto.</p>
   </div>
   <p class="next">E che cosa non è cambiato? →</p>
   <div class="src"><b>FONTE</b><span><em>Sun &amp; Yang, 2026</em> · Frontiers in Psychology</span></div>

diff --git a/carosselli/direzione/kit-pubblicazione-direzione.md b/carosselli/direzione/kit-pubblicazione-direzione.md
@@ -6,7 +6,7 @@
 
 **Data consigliata:** **martedì 24 novembre 2026**, tra le 12:30 e le 14:00 oppure tra le 18:30 e le 20:00.
 
-**Una sola immagine per i numeri:** l'ago sul quadrante (slide 6 e 7); niente file, gare o probabilità.
+**Una sola immagine per i numeri:** l'ago sul quadrante e il vantaggio netto (slide 6 e 7); niente file, gare o probabilità. Il vantaggio netto è una nostra trasformazione dell'U3 (spiegata nel primo commento), non un numero riportato dagli autori.
 
 **Racconto lineare:** succede a molti → due modi di pensarci (esplorare / rimuginare) → la ricerca → che cosa hanno scritto → come leggere i numeri → i numeri, tradotti → che cosa non è cambiato → perché, secondo gli autori → mito o realtà → limiti → WeSelf. Prepara il bias di sabato (illusione della fine della storia), che tocca lo stesso tema.
 
@@ -49,10 +49,10 @@ Quattro esercizi di scrittura sul proprio lavoro futuro, 20 minuti a settimana: 
 ```
 📚 Fonte: Sun S., Yang D. (2026). Effects of a future work self writing intervention on ruminative career exploration and career decision-making difficulties among final-year university students: a three-arm randomized controlled trial. Frontiers in Psychology, 17, 1965900. https://doi.org/10.3389/fpsyg.2026.1965900 (articolo libero) — studio randomizzato preregistrato (ChiCTR2500074449), 486 studenti, tre gruppi da 162.
 
-Come abbiamo letto i numeri: gli autori riportano gli effetti come d di Cohen, stimati alla fine dello studio (3 mesi dopo). Li abbiamo convertiti con l'indice U3 di Cohen (U3 = Φ(d)): è la percentuale del gruppo di confronto che ha rimuginato di più (o si è sentita meno pronta) della persona media del gruppo che ha scritto del lavoro futuro. Nelle slide la mostriamo come un ago su un quadrante da 0% a 100%: 50% = nessuna differenza.
-• Rimuginare: d = 0,35 rispetto a chi ha scritto d'altro → 64%; d = 0,41 rispetto a chi non ha scritto → 66%.
-• Mancanza di prontezza a decidere (questionario CDDQ: motivazione, indecisione, convinzioni che bloccano): d = 0,38 → 65%; d = 0,43 → 67%.
-Non è un «64% in meno» né un «64% di persone».
+Come abbiamo letto i numeri: gli autori riportano gli effetti come d di Cohen, stimati alla fine dello studio (3 mesi dopo). Prima li abbiamo convertiti con l'indice U3 di Cohen (U3 = Φ(d)): la percentuale del gruppo di confronto che ha rimuginato di più (o si è sentita meno pronta) della persona media del gruppo che ha scritto del lavoro futuro. Poi abbiamo calcolato il vantaggio netto = U3 − (100% − U3) = 2·U3 − 100%: 0% = nessuna differenza, +100% = tutto il gruppo di confronto sopra la persona media.
+• Rimuginare: d = 0,35 rispetto a chi ha scritto d'altro → U3 64% → vantaggio netto +28%; d = 0,41 rispetto a chi non ha scritto → 66% → +32%.
+• Mancanza di prontezza a decidere (questionario CDDQ: motivazione, indecisione, convinzioni che bloccano): d = 0,38 → 65% → +30%; d = 0,43 → 67% → +34%.
+Non è un «28% di rimuginio in meno» né un «28% di persone in più».
 
 Esplorare (su di sé e sui lavori): nessun effetto rilevabile (d tra 0,07 e 0,13; effetti di 0,30 o più esclusi dagli autori con test di equivalenza). Lavoro a 3 mesi: nessuna differenza dopo la correzione per confronti multipli. Il «circa un terzo» della slide 9 è il 35% dell'effetto sulla prontezza passato attraverso il calo del rimuginare (analisi di mediazione, associativa).
 ```
@@ -64,8 +64,8 @@ Esplorare (su di sé e sui lavori): nessun effetto rilevabile (d tra 0,07 e 0,13
 3. Due modi di pensarci: esplorare (cercare risposte, una linea che avanza) e rimuginare (girare in tondo, un nodo).
 4. La ricerca: 486 studenti divisi a caso in tre gruppi: A scrive del lavoro futuro, B di altri progetti, C non scrive; questionari prima, subito dopo, dopo 1 e 3 mesi.
 5. Le quattro domande: chi sarò, una giornata tipo, che cosa saprò fare e con chi, un passo. Completati in media 3,7 esercizi su 4.
-6. Come leggere i numeri: un quadrante da 0% a 100% con l'ago sul 64% (la persona media del gruppo A rispetto a 100 persone del gruppo B); a metà, il 50%, significa nessuna differenza.
-7. Quattro quadranti con l'ago oltre la metà: rimuginare meno, 64% rispetto al gruppo B e 66% rispetto al gruppo C; sentirsi pronti a decidere, 65% e 67%.
+6. Come leggere i numeri: un quadrante da −100% a +100% con l'ago su +28%, il vantaggio netto della persona media del gruppo A rispetto al gruppo B (meno rimuginio del 64%, più del 36%); 0% significa nessuna differenza.
+7. Quattro quadranti, vantaggio netto: rimuginare meno, +28% rispetto al gruppo B e +32% rispetto al gruppo C; sentirsi pronti a decidere, +30% e +34%.
 8. Che cosa non è cambiato: esplorare e trovare lavoro.
 9. Togliere, non aggiungere: ci si aspettava più ricerca, è risultato meno pensieri in circolo.
 10. Mito o realtà? «Per capire che strada prendere, basta informarsi di più.» Mito: il gruppo più pronto a decidere non aveva cercato più informazioni, aveva immaginato con più chiarezza il proprio lavoro futuro.
